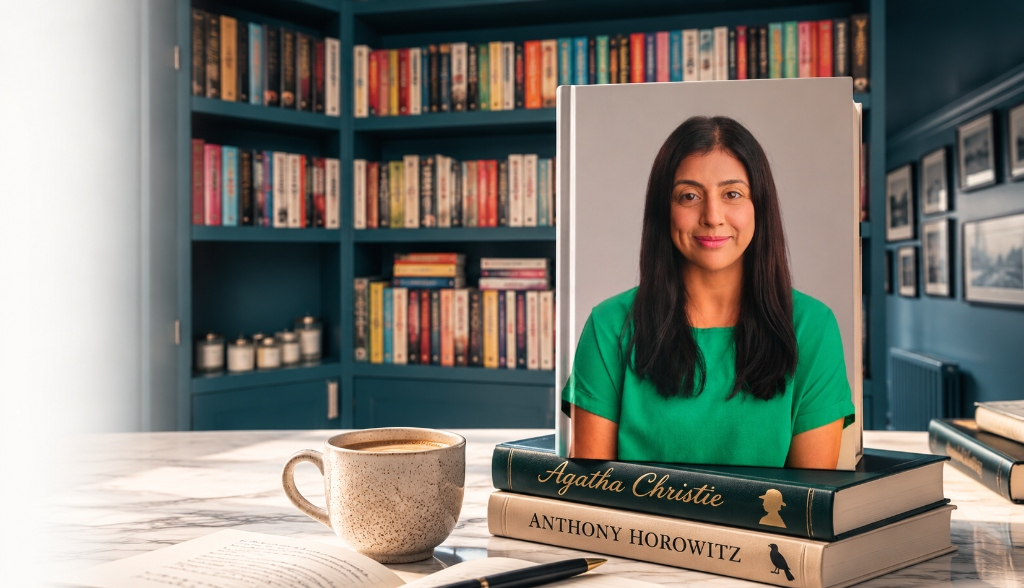
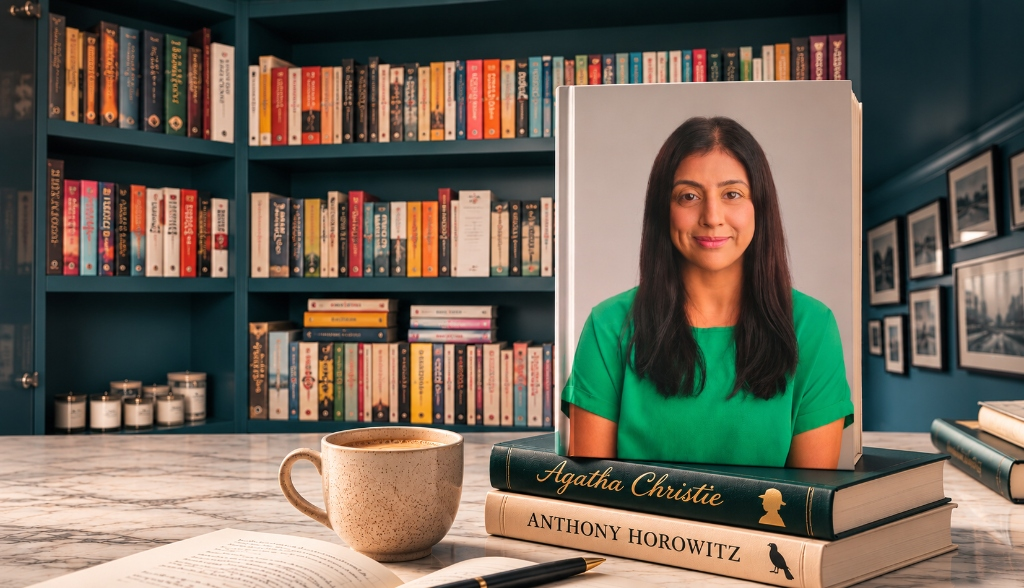
Update home page hero image to latest portrait study

diff --git a/index.html b/index.html
@@ -134,7 +134,7 @@
     <section class="hero-editorial" id="hero">
       <!-- Full-bleed background media spanning all the way right, top, and down to the green banner -->
       <div class="hero-backdrop-spread" aria-hidden="true">
-        <img src="assets/faaiza-hero-study.jpg" alt="Author portrait of Faaiza Munir in her study with book stack and library shelves"
+        <img src="assets/faaiza-hero-study.jpg?v=2" alt="Author portrait of Faaiza Munir in her study with book stack and library shelves"
           class="hero-backdrop-img" width="1024" height="588" loading="eager">
       </div>
 
